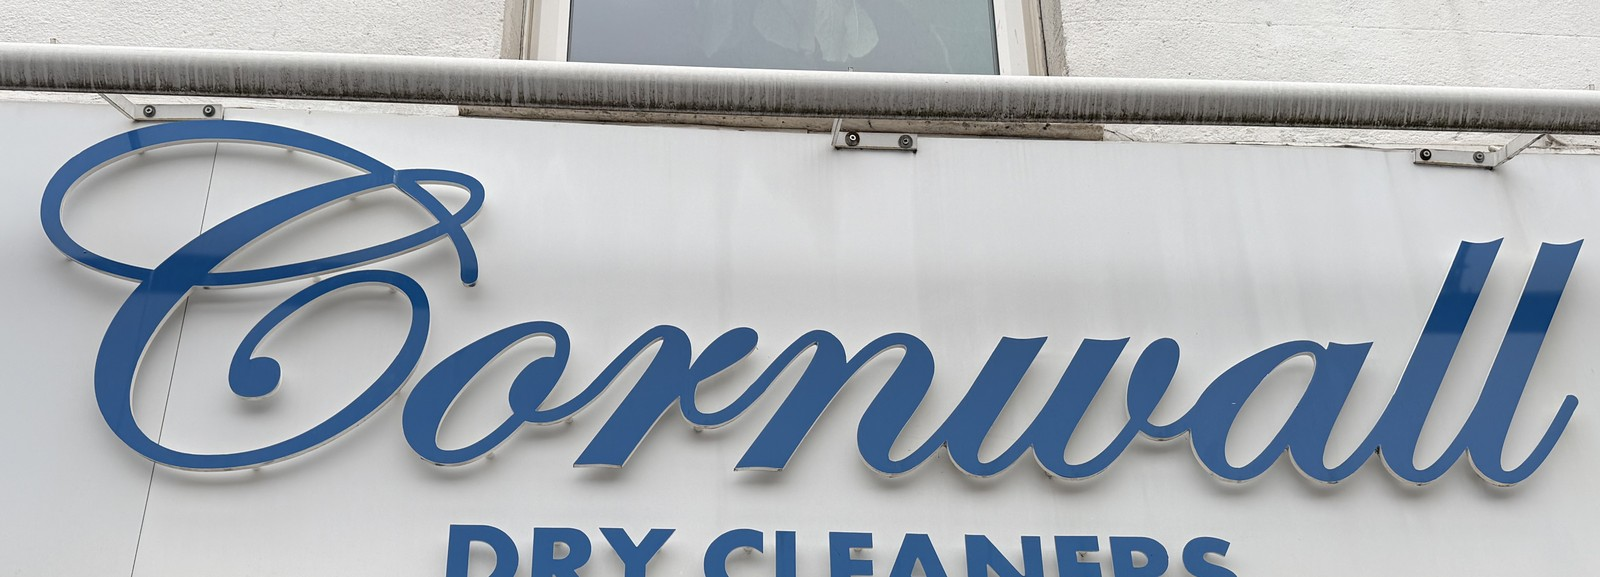
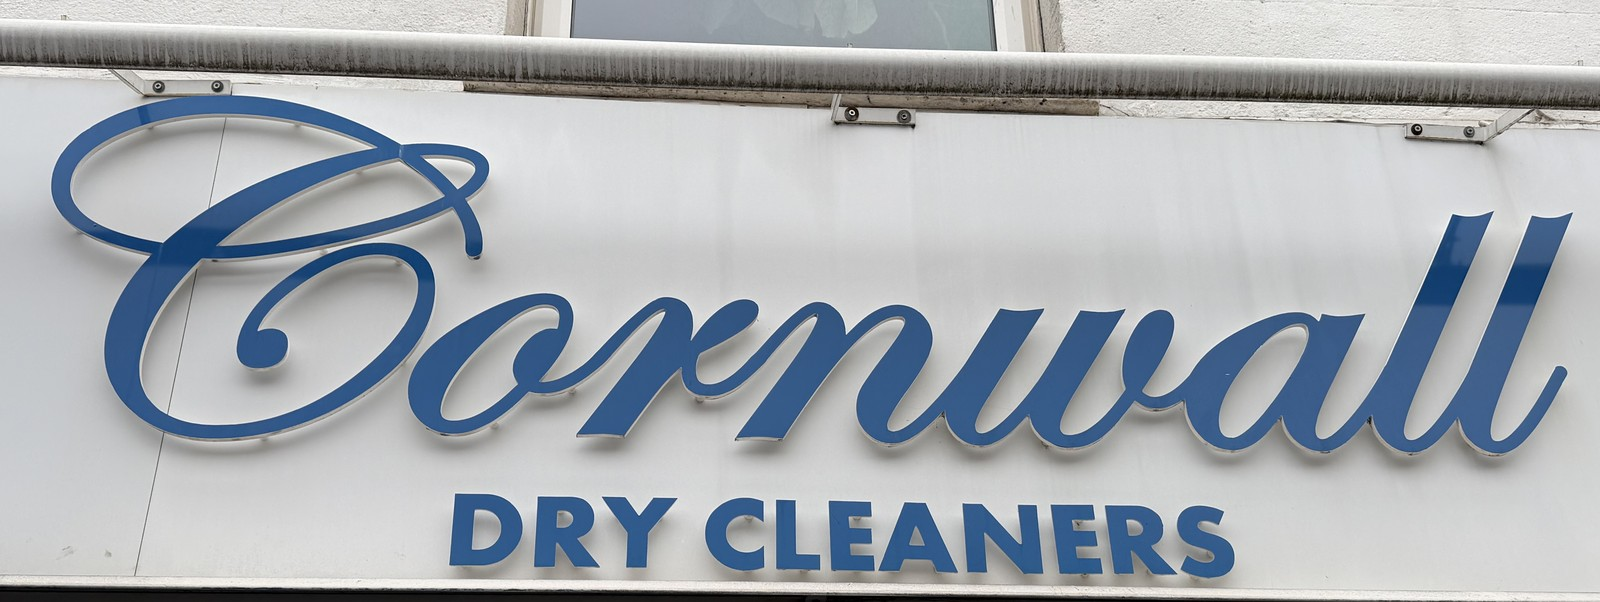
Tighten the fascia wordmark crop and keep mockup buttons on one line.

diff --git a/mockups/mockups.css b/mockups/mockups.css
@@ -60,6 +60,7 @@ p { margin: 0 0 0.9rem; }
   text-decoration: none;
   font-weight: 600;
   font-size: 0.95rem;
+  white-space: nowrap;
 }
 .btn-navy { background: var(--navy); color: var(--white); }
 .btn-blue { background: var(--blue); color: var(--white); }
@@ -168,6 +169,13 @@ p { margin: 0 0 0.9rem; }
 /* A: Fascia — white, photo-led, airy */
 .a-hero { padding: 3.2rem 0 2.4rem; }
 .a-hero h1 { font-size: clamp(2.6rem, 6vw, 4.6rem); max-width: 12ch; }
+.a-wordmark {
+  width: 100%;
+  border-radius: 1.2rem;
+  border: 1px solid var(--line);
+  background: #fff;
+  object-fit: contain;
+}
 .a-photo {
   margin: 0;
   border-radius: 1.4rem;

diff --git a/mockups/a.html b/mockups/a.html
@@ -37,7 +37,7 @@
             <a class="btn btn-line" href="#visit" style="margin-left:0.5rem">Hours &amp; map</a>
           </p>
         </div>
-        <img src="../assets/wordmark.jpg" alt="Cornwall Dry Cleaners fascia lettering" style="width:100%;border-radius:1.2rem;border:1px solid var(--line);background:#fff" />
+        <img class="a-wordmark" src="../assets/wordmark.jpg" alt="Cornwall Dry Cleaners fascia lettering" />
       </div>
     </section>
 
